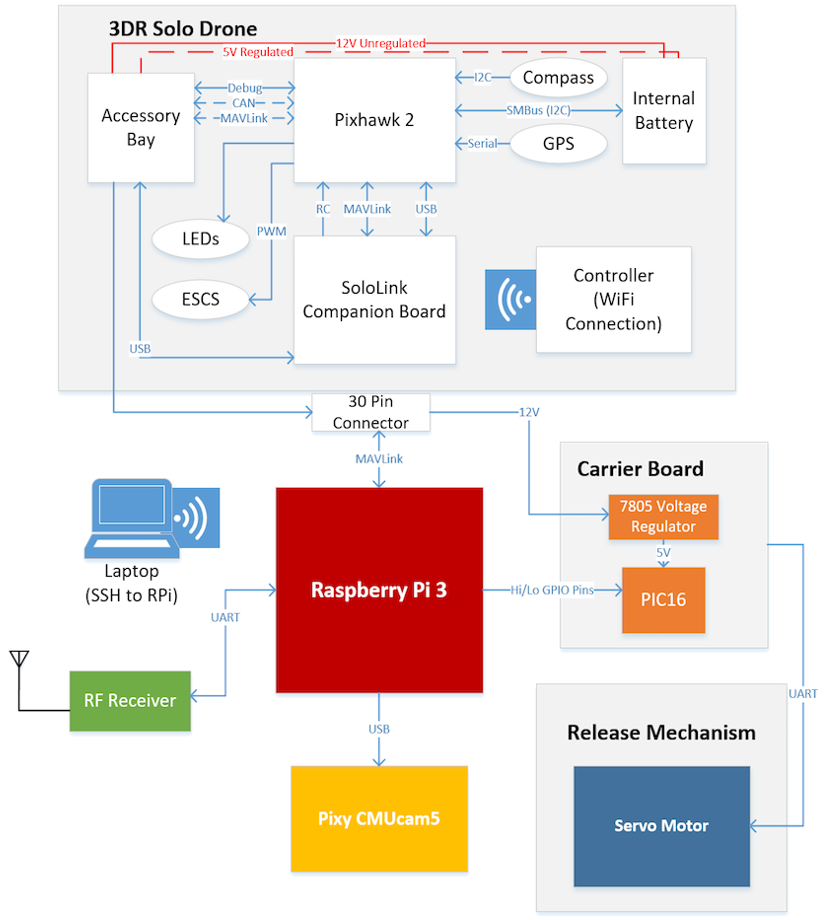
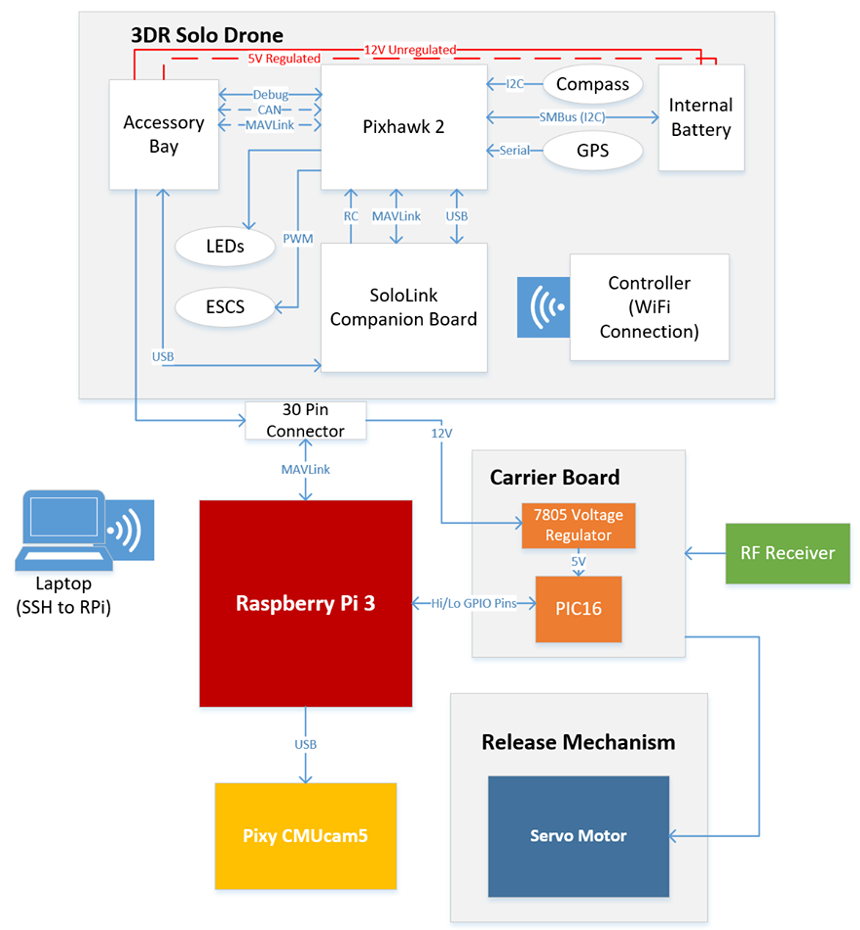
Updated diagrams

Changed region(s): [[0.0, 0.0, 0.994, 1.0], [0.0, 0.7, 0.0301, 0.7609]]

diff --git a/software.html b/software.html
@@ -92,7 +92,7 @@
   <div class="col-xs-10 col-xs-offset-1 col-lg-6 col-lg-offset-3 text-center">
   	<p class="bigger bold">C Programming Language</p>
   	<p>The C programming language is used on the PIC microcontroller to rotate the servo motor and detect
-       the radio signals from the RF receiver. The data is read by the Python script on the Raspberry Pi.</p>
+       the radio signals (for the second challenge) from the RF receiver. The data is read by the Python script on the Raspberry Pi.</p>
   <div class="space-16"></div>
   </div>
 <br></br><br>

diff --git a/hardware.html b/hardware.html
@@ -77,7 +77,7 @@
         <div class="space-16"></div>
       </div>
       <div class="text-center">
-        <br><img class="img-responsive white_background center-block" src="./images/hardwarediagram.png" alt="Hardware Diagram">
+        <br><img class="img-responsive white_background center-block" src="./images/hardwarediagram.png" alt="Hardware Diagram" width="700">
 
 		<br></br><br>
 
